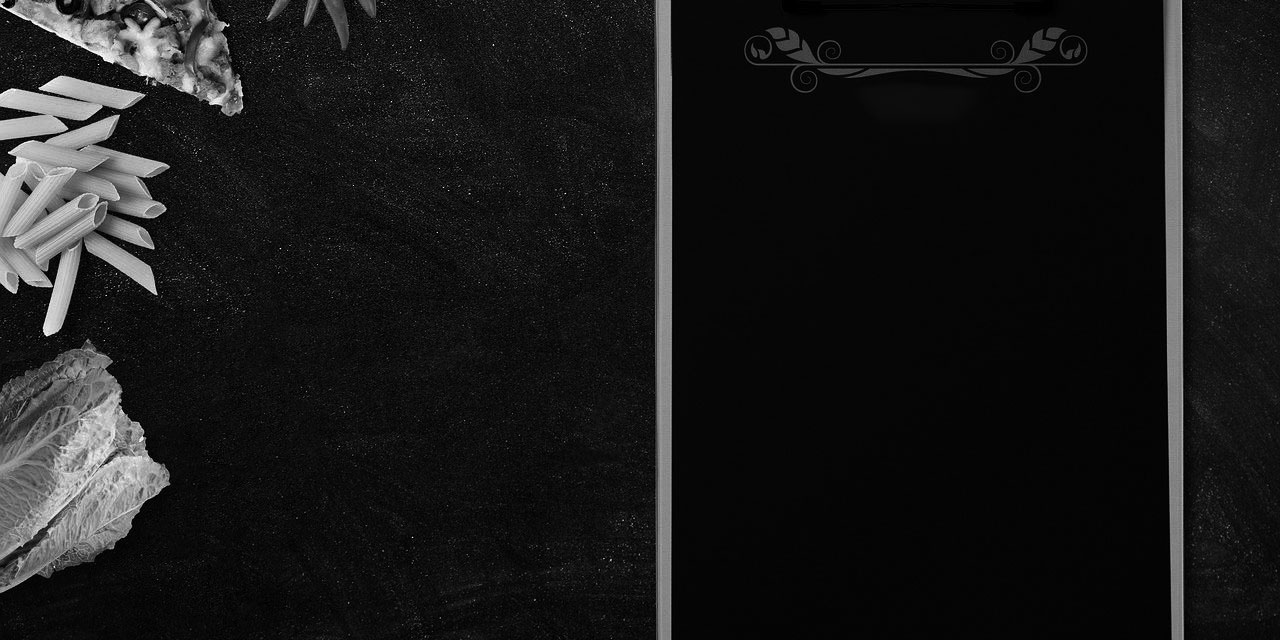
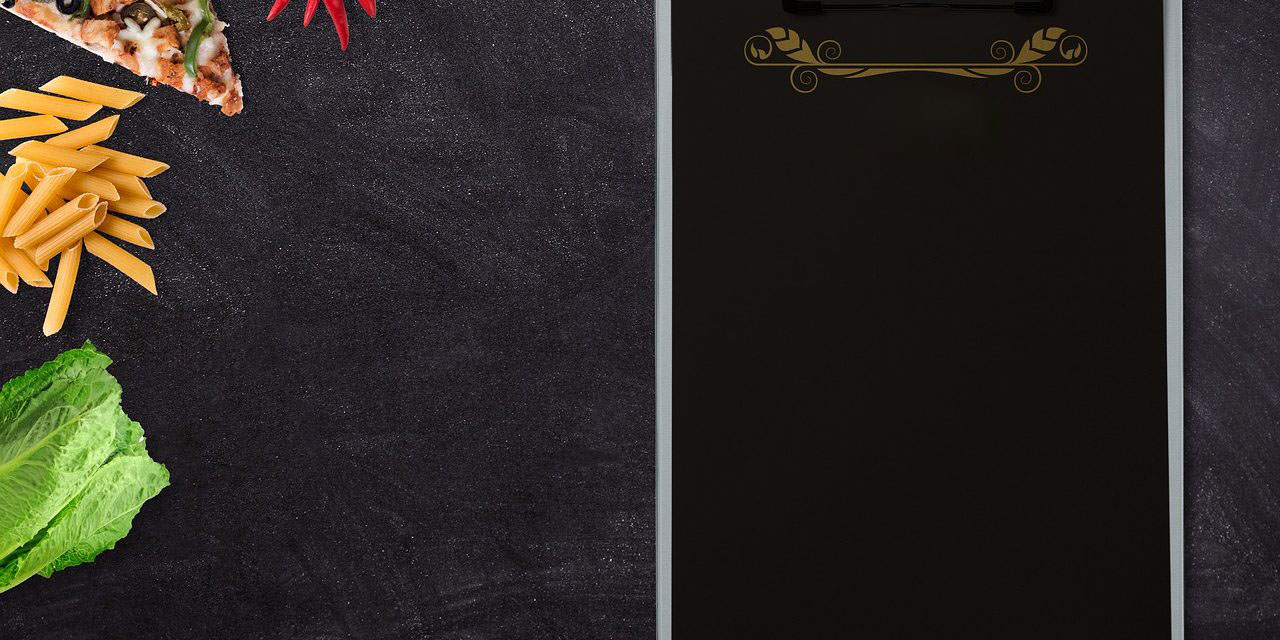
responsive menu

diff --git a/sections/menu.html b/sections/menu.html
@@ -51,120 +51,120 @@
             <h1>Menu</h1>
             <hr>
         </div>
-        <div class="menus">
+        <div class="menusTitulos">
             <h2>Entradas</h2>
             <hr>
         </div>
         <div class="opcionesMenu">
             <div class="menus divMenus">
-                <h3>NYC Arancini</h3>
+                <h3 class="menusTitulos">NYC Arancini</h3>
                 <P>Bolitas de ‘risotto ai funghi’ rellenas de queso 100% mozzarella, empanizadas artesanalmente y
                     bañadas
                     en nuestra clásica salsa vodka (4pza)
                 </P>
             </div>
             <div class="menus divMenus">
-                <h3>Fried Ravioli</h3>
+                <h3 class="menusTitulos">Fried Ravioli</h3>
                 <p>Ravioles hechos en casa, fritos, rellenos de cremoso dip de alcachofa (8pza)</p>
             </div>
             <div class="menus divMenus">
-                <h3>Chicago Style Fried Calamari</h3>
+                <h3 class="menusTitulos">Chicago Style Fried Calamari</h3>
                 <p>Aros de calamar rebozados en masa de cerveza,acompañados con nuestra giardiniera casera (100g)</p>
             </div>
             <div class="menus divMenus">
-                <h3>Mozzarella Sticks</h3>
+                <h3 class="menusTitulos">Mozzarella Sticks</h3>
                 <p>Crujientes dedos de queso mozzarella hechos en casa (5pza)</p>
             </div>
             <div class="menus divMenus">
-                <h3>Cheesy Garlic Focaccia</h3>
+                <h3 class="menusTitulos">Cheesy Garlic Focaccia</h3>
                 <p>Pan de masa esponjosa y aromatica relleno de una mezcla de queso monterrey jack y cheddar con capas
                     de
                     mantequilla de ajo cubierto con una costra de queso mozzarella, parmesano, manchego y finas hierbas
                 </p>
             </div>
         </div>
-        <div class="menus">
+        <div class="menusTitulos">
             <h2>Ensaladas</h2>
             <hr>
         </div>
         <div class="opcionesMenu">
             <div class="menus divMenus">
-                <h3>Cesar</h3>
+                <h3 class="menusTitulos">Cesar</h3>
                 <P>Corazón de Lechuga Romana aderezado con aderezo césar recién hecho acompañado de croutones y
                     láminas
                     de queso parmesano (220g)
                 </P>
             </div>
             <div class="menus divMenus">
-                <h3>Homeslice</h3>
+                <h3 class="menusTitulos">Homeslice</h3>
                 <p>Lechuga romana, tocino, chicken tenders, tomates cherry,queso mozzarella, aceitunas negras,
                     aguacate
                     con aderezo a elegir: César, Vinagreta Balsámica, Honey Mustard o Blue Cheese (450g)</p>
             </div>
             <div class="menus divMenus">
-                <h3>Mediterranean</h3>
+                <h3 class="menusTitulos">Mediterranean</h3>
                 <p>Pasta fusili con tomate cherry, cebolla morada, aceitunas negras,pimientos y queso mozzarella
                     bañada
                     en vinagreta balsámica (450g)</p>
             </div>
         </div>
-        <div class="menus">
+        <div class="menusTitulos">
             <h2>Pizza</h2>
             <hr>
         </div>
         <div class="opcionesMenu">
             <div class="menus divMenus">
-                <h3>Deep Dish Pepperoni Lovers</h3>
+                <h3 class="menusTitulos">Deep Dish Pepperoni Lovers</h3>
                 <P>Queso mozzarella y doble pepperoni</P>
             </div>
             <div class="menus divMenus">
-                <h3>Deep Dish Veggie Lovers</h3>
+                <h3 class="menusTitulos">Deep Dish Veggie Lovers</h3>
                 <p>pimiento rojo, cebolla,champiñones y aceitunas</p>
             </div>
             <div class="menus divMenus">
-                <h3>Deep Dish Xtreme Supreme</h3>
+                <h3 class="menusTitulos">Deep Dish Xtreme Supreme</h3>
                 <p>Pepperoni, salchicha italiana, champiñones, cebolla y pimiento verde</p>
             </div>
             <div class="menus divMenus">
-                <h3>Deep Dish Cheesy AF</h3>
+                <h3 class="menusTitulos">Deep Dish Cheesy AF</h3>
                 <P>queso cheddar,manchego,mozzarella y parmesano</P>
             </div>
             <div class="menus divMenus">
-                <h3>Deep Dish Basic AF</h3>
+                <h3 class="menusTitulos">Deep Dish Basic AF</h3>
                 <p>jitomate cherry, albhaca y extra queso mozzarella</p>
             </div>
             <div class="menus divMenus">
-                <h3>Deep Dish Hawaiana</h3>
+                <h3 class="menusTitulos">Deep Dish Hawaiana</h3>
                 <p>Extra tocino y piña</p>
             </div>
             <div class="menus divMenus">
-                <h3>Italiana</h3>
+                <h3 class="menusTitulos">Italiana</h3>
                 <P>Deliciosa salsa boloñesa, queso crema y pasta lasagna con queso mozzarella</P>
             </div>
             <div class="menus divMenus">
-                <h3>Deep Dish Cochinita</h3>
+                <h3 class="menusTitulos">Deep Dish Cochinita</h3>
                 <p>Cochinita Pibil, mix de queso oaxaca y mozzarella, y cebolla morada</p>
             </div>
             <div class="menus divMenus">
-                <h3>Deep Dish Pastor</h3>
+                <h3 class="menusTitulos">Deep Dish Pastor</h3>
                 <p>Carne al Pastor, mix de queso oaxaca y mozzarella, adobo, piña, cilantro y cebolla</p>
             </div>
             <div class="menus divMenus">
-                <h3>Deep Dish Spicy BBQ</h3>
+                <h3 class="menusTitulos">Deep Dish Spicy BBQ</h3>
                 <p>Pollo a la plancha, salsa spicy bbq, queso cheddar,cebolla morada y perejil</p>
             </div>
             <div class="menus divMenus">
-                <h3>Deep Dish Buffalo</h3>
+                <h3 class="menusTitulos">Deep Dish Buffalo</h3>
                 <P>Chicken banados en salsa buffalo, aderezo blue cheese y apio</P>
             </div>
         </div>
-        <div class="menus">
+        <div class="menusTitulos">
             <h2>Pastas</h2>
             <hr>
         </div>
         <div class="opcionesMenu">
             <div class="menus divMenus">
-                <h3>Fettuccine</h3>
+                <h3 class="menusTitulos">Fettuccine</h3>
                 <p>4 Quesos
                     <br>
                     Pomodoro
@@ -174,7 +174,7 @@
                     Al burro</p>
             </div>
             <div class="menus divMenus">
-                <h3>Ravioles de espinaca con queso (8pza)</h3>
+                <h3 class="menusTitulos">Ravioles de espinaca con queso (8pza)</h3>
                 <P>4 Quesos
                     <br>
                     Pomodoro
@@ -186,7 +186,7 @@
                     Al burro</P>
             </div>
             <div class="menus divMenus">
-                <h3>Ravioles Boloñesa (8pza)</h3>
+                <h3 class="menusTitulos">Ravioles Boloñesa (8pza)</h3>
                 <P>4 Quesos
                     <br>
                     Pomodoro
@@ -198,7 +198,7 @@
                     Al burro</P>
             </div>
             <div class="menus divMenus">
-                <h3>Lasagna Bolognesa</h3>
+                <h3 class="menusTitulos">Lasagna Bolognesa</h3>
                 <p>Lasagna preparada con capas carne bolognesa, salsa pomodoro, bechamel de parmesano y queso mozzarella
                 </p>
                 <span>Horneadas
@@ -207,7 +207,7 @@
                 </span>
             </div>
             <div class="menus divMenus">
-                <h3>Lasagna Vegetariana</h3>
+                <h3 class="menusTitulos">Lasagna Vegetariana</h3>
                 <p>Lasagna preparada con calabaza, berenjena, zanahoria,champinon, espinaca y queso mozzarella</p>
                 <span>Horneadas
                     <br>
@@ -215,13 +215,13 @@
                 </span>
             </div>
         </div>
-        <div class="menus">
+        <div class="menusTitulos">
             <h2>Calzone</h2>
             <hr>
         </div>
         <div class="opcionesMenu">
             <div class="menus divMenus">
-                <h3>Cheese Clazone</h3>
+                <h3 class="menusTitulos">Cheese Clazone</h3>
                 <p>Nuestra masa de Pizza NY rellena de queso, salsa y tus ingredientes favoritos a elegir</p>
                 <p>Pepperoni
                     <br>
@@ -231,43 +231,43 @@
                 </p>
             </div>
         </div>
-        <div class="menus">
-            <h2>Postres</h2>
+        <div>
+            <h2 class="menusTitulos">Postres</h2>
             <hr>
         </div>
         <div class="opcionesMenu">
             <div>
-                <h3>Sweet Pretzels</h3>
+                <h3 class="menusTitulos">Sweet Pretzels</h3>
                 <p>Pretzels hechos de nuestra masa Ny bañados en salsa de tu elección ( nutella, cajtea, o chocolate)
                 </p>
             </div>
             <div class="menus divMenus">
-                <h3>Deep in Apples</h3>
+                <h3 class="menusTitulos">Deep in Apples</h3>
                 <p>Nuestra versión del famoso pie de manzana acompañado de helado de vainilla. Tiempo de cocción 30 min
                     (300g)</p>
             </div>
             <div class="menus divMenus">
-                <h3>NYC Cheesecake</h3>
+                <h3 class="menusTitulos">NYC Cheesecake</h3>
                 <p>Original Cheesecake estilo Nueva York servido con compota de zarzamora (200g)</p>
             </div>
             <div class="menus divMenus">
-                <h3>Carrot Cake</h3>
+                <h3 class="menusTitulos">Carrot Cake</h3>
                 <p>Pastel de zanahoria hecho en casa cubierto con betún de queso crema y decorado con trozos de nuez.
                 </p>
             </div>
             <div class="menus divMenus">
-                <h3>Panque de Elote</h3>
+                <h3 class="menusTitulos">Panque de Elote</h3>
                 <p>Panque de elote casero con salsa de cajeta (by Xilaango)
                 </p>
             </div>
         </div>
         <div class="menus">
-            <h2>Malteadas</h2>
+            <h2 class="menusTitulos">Malteadas</h2>
             <hr>
         </div>
         <div class="opcionesMenu">
             <div class="menus divMenus">
-                <h3>Fresa</h3>
+                <h3 class="menusTitulos">Fresa</h3>
                 <p>
                     Deslactosada
                     <br>
@@ -276,7 +276,7 @@
                 </p>
             </div>
             <div class="menus divMenus">
-                <h3>vainilla</h3>
+                <h3 class="menusTitulos">vainilla</h3>
                 <p>
                     Deslactosada
                     <br>
@@ -285,7 +285,7 @@
                 </p>
             </div>
             <div class="menus divMenus">
-                <h3>chocolate</h3>
+                <h3 class="menusTitulos">chocolate</h3>
                 <p>
                     Deslactosada
                     <br>
@@ -294,10 +294,10 @@
                 </p>
             </div>
             <div class="menus divMenus">
-                <h3>oreo</h3>
+                <h3 class="menusTitulos">oreo</h3>
             </div>
             <div class="menus divMenus">
-                <h3>Wine Shake</h3>
+                <h3 class="menusTitulos">Wine Shake</h3>
                 <p>
                     Deslactosada
                     <br>
@@ -306,7 +306,7 @@
                 </p>
             </div>
             <div class="menus divMenus">
-                <h3>Margarita Shake</h3>
+                <h3 class="menusTitulos">Margarita Shake</h3>
                 <p>
                     Deslactosada
                     <br>
@@ -315,7 +315,7 @@
                 </p>
             </div>
             <div class="menus divMenus">
-                <h3>Stout Frappe</h3>
+                <h3 class="menusTitulos">Stout Frappe</h3>
                 <p>
                     Deslactosada
                     <br>

diff --git a/style/style.css b/style/style.css
@@ -102,7 +102,6 @@ body{
 .test{
     height: 87vh;
 }
-
 /******************************* parrafoInicio *******************************/
 
 /* rgb(48, 48, 48); color */
@@ -185,9 +184,17 @@ body{
     padding-top: 5em;
 }
 .opcionesMenu{
-    margin-left: 15%;
-    margin-right: 15%;
-    background-color: rgb(0, 0, 0);
+    display: flex;
+    flex-wrap: wrap;
+    justify-content: space-between;
+    background-color: rgba(0, 0, 0, 0.158);
+    margin-left: 5%;
+    margin-right: 5%;
+}
+.menusTitulos{
+    font-weight: bold !important;
+    text-align: center;
+    color: #bc8d4b;
 }
 .menus{
     text-align: center;
@@ -195,12 +202,18 @@ body{
 hr{
     margin-left: 15%;
     margin-right: 15%;
-    border: rgb(139, 137, 0) 2px solid;
+    border: rgb(223, 219, 10) 2px solid;
 }
 .divMenus{
-    width: 50%;
+    width: 40%;
+    margin-bottom: 5%;
 }
-
+.menusParrafo{
+    font-size: 3rem;
+}
+body > section > div > div > p{
+    font-size: 17px;
+}
 /******************************* Fomulario reserva*******************************/
 .reservasForm{
     display: flex;
@@ -353,6 +366,7 @@ footer{
         height: auto;
     }
 }
+/************************************* media *************************************/
 @media (max-width:900px){
     .parrafoIndex{
         flex-direction: column;
@@ -360,11 +374,38 @@ footer{
     .fotoParrafo{
         margin-left: 0;
     }
+    .fondoMenu{
+        background-image: url(../images/menu900.jpg);
+        min-width: none;
+    }
 }
-@media (max-width:767px){
+@media (max-width:768px){
     .containerGaleria{
         flex-direction: column;
         align-items: center;
         justify-content: center;
     }
+    .opcionesMenu{
+        flex-direction: column;
+    }
+    .divMenus{
+        width: 100%;
+    }
+    .fondoMenu{
+        background-image: url(../images/menu780.jpg);
+        min-width: none;
+    }
+}
+@media (max-width:576px){
+    .containerGaleria{
+        flex-direction: column;
+        align-items: center;
+        justify-content: center;
+    }
+    .fondoMenu{
+        background-image: url(../images/menu576.jpg);
+        min-width: none;
+        background-size: cover;
+    }
+    
 }
